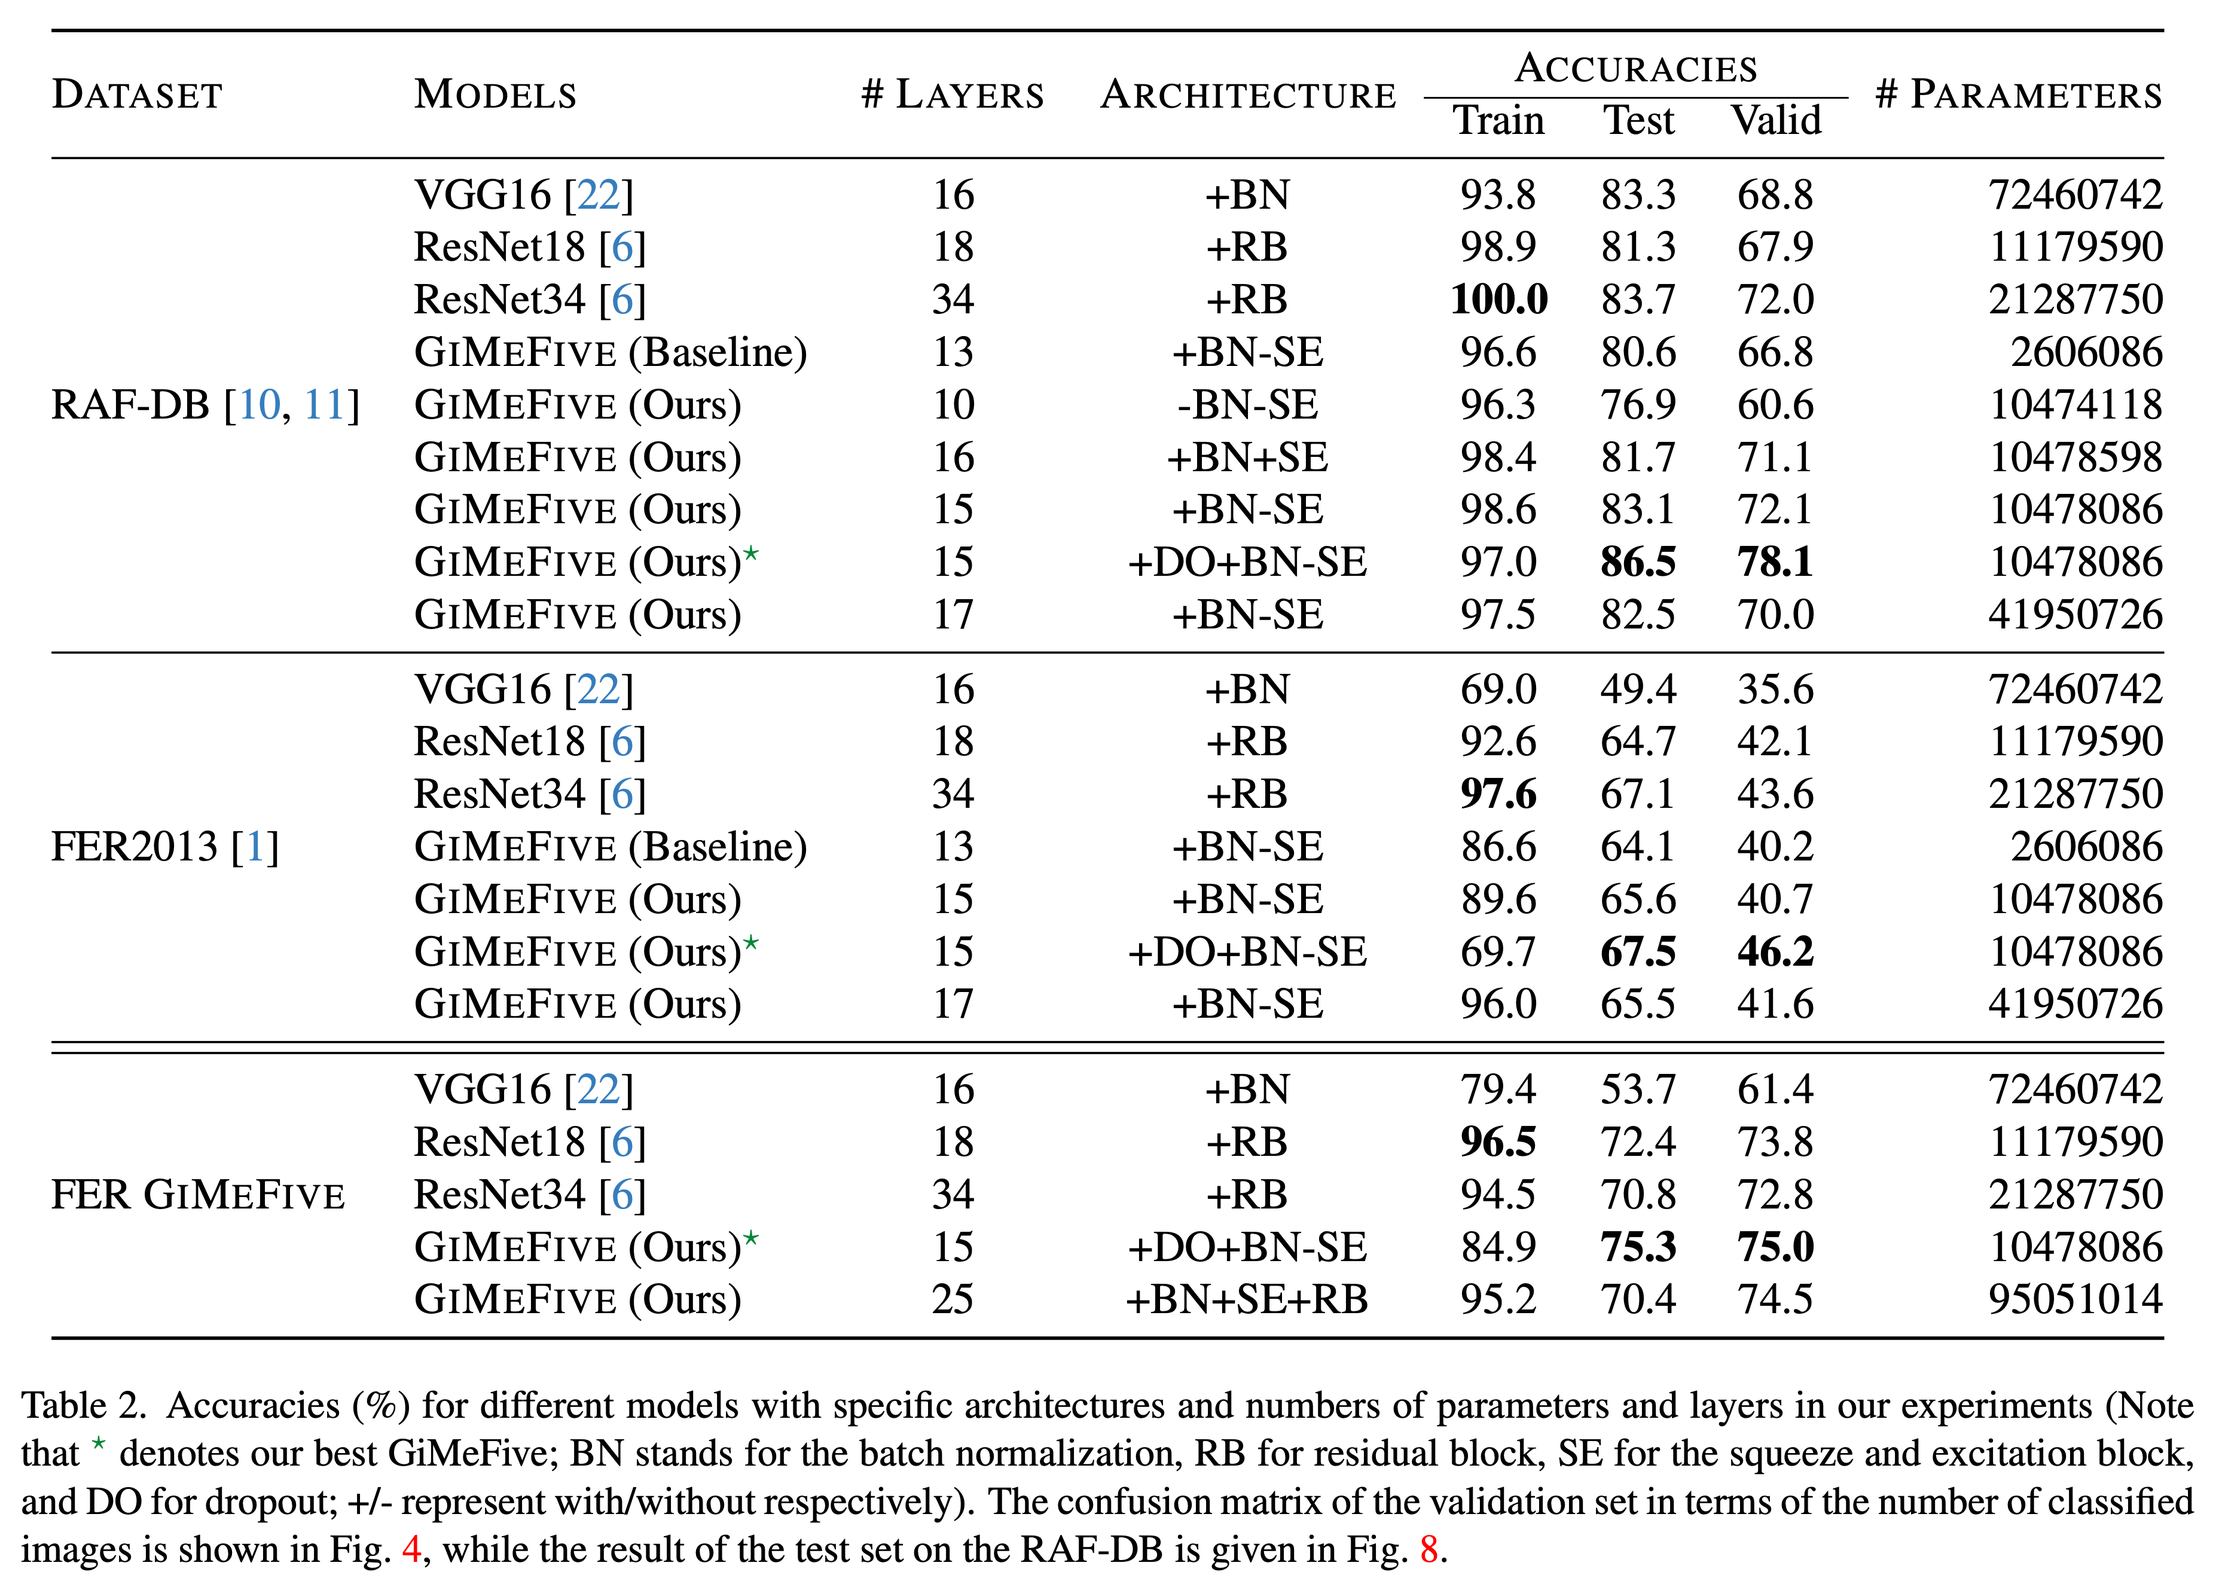
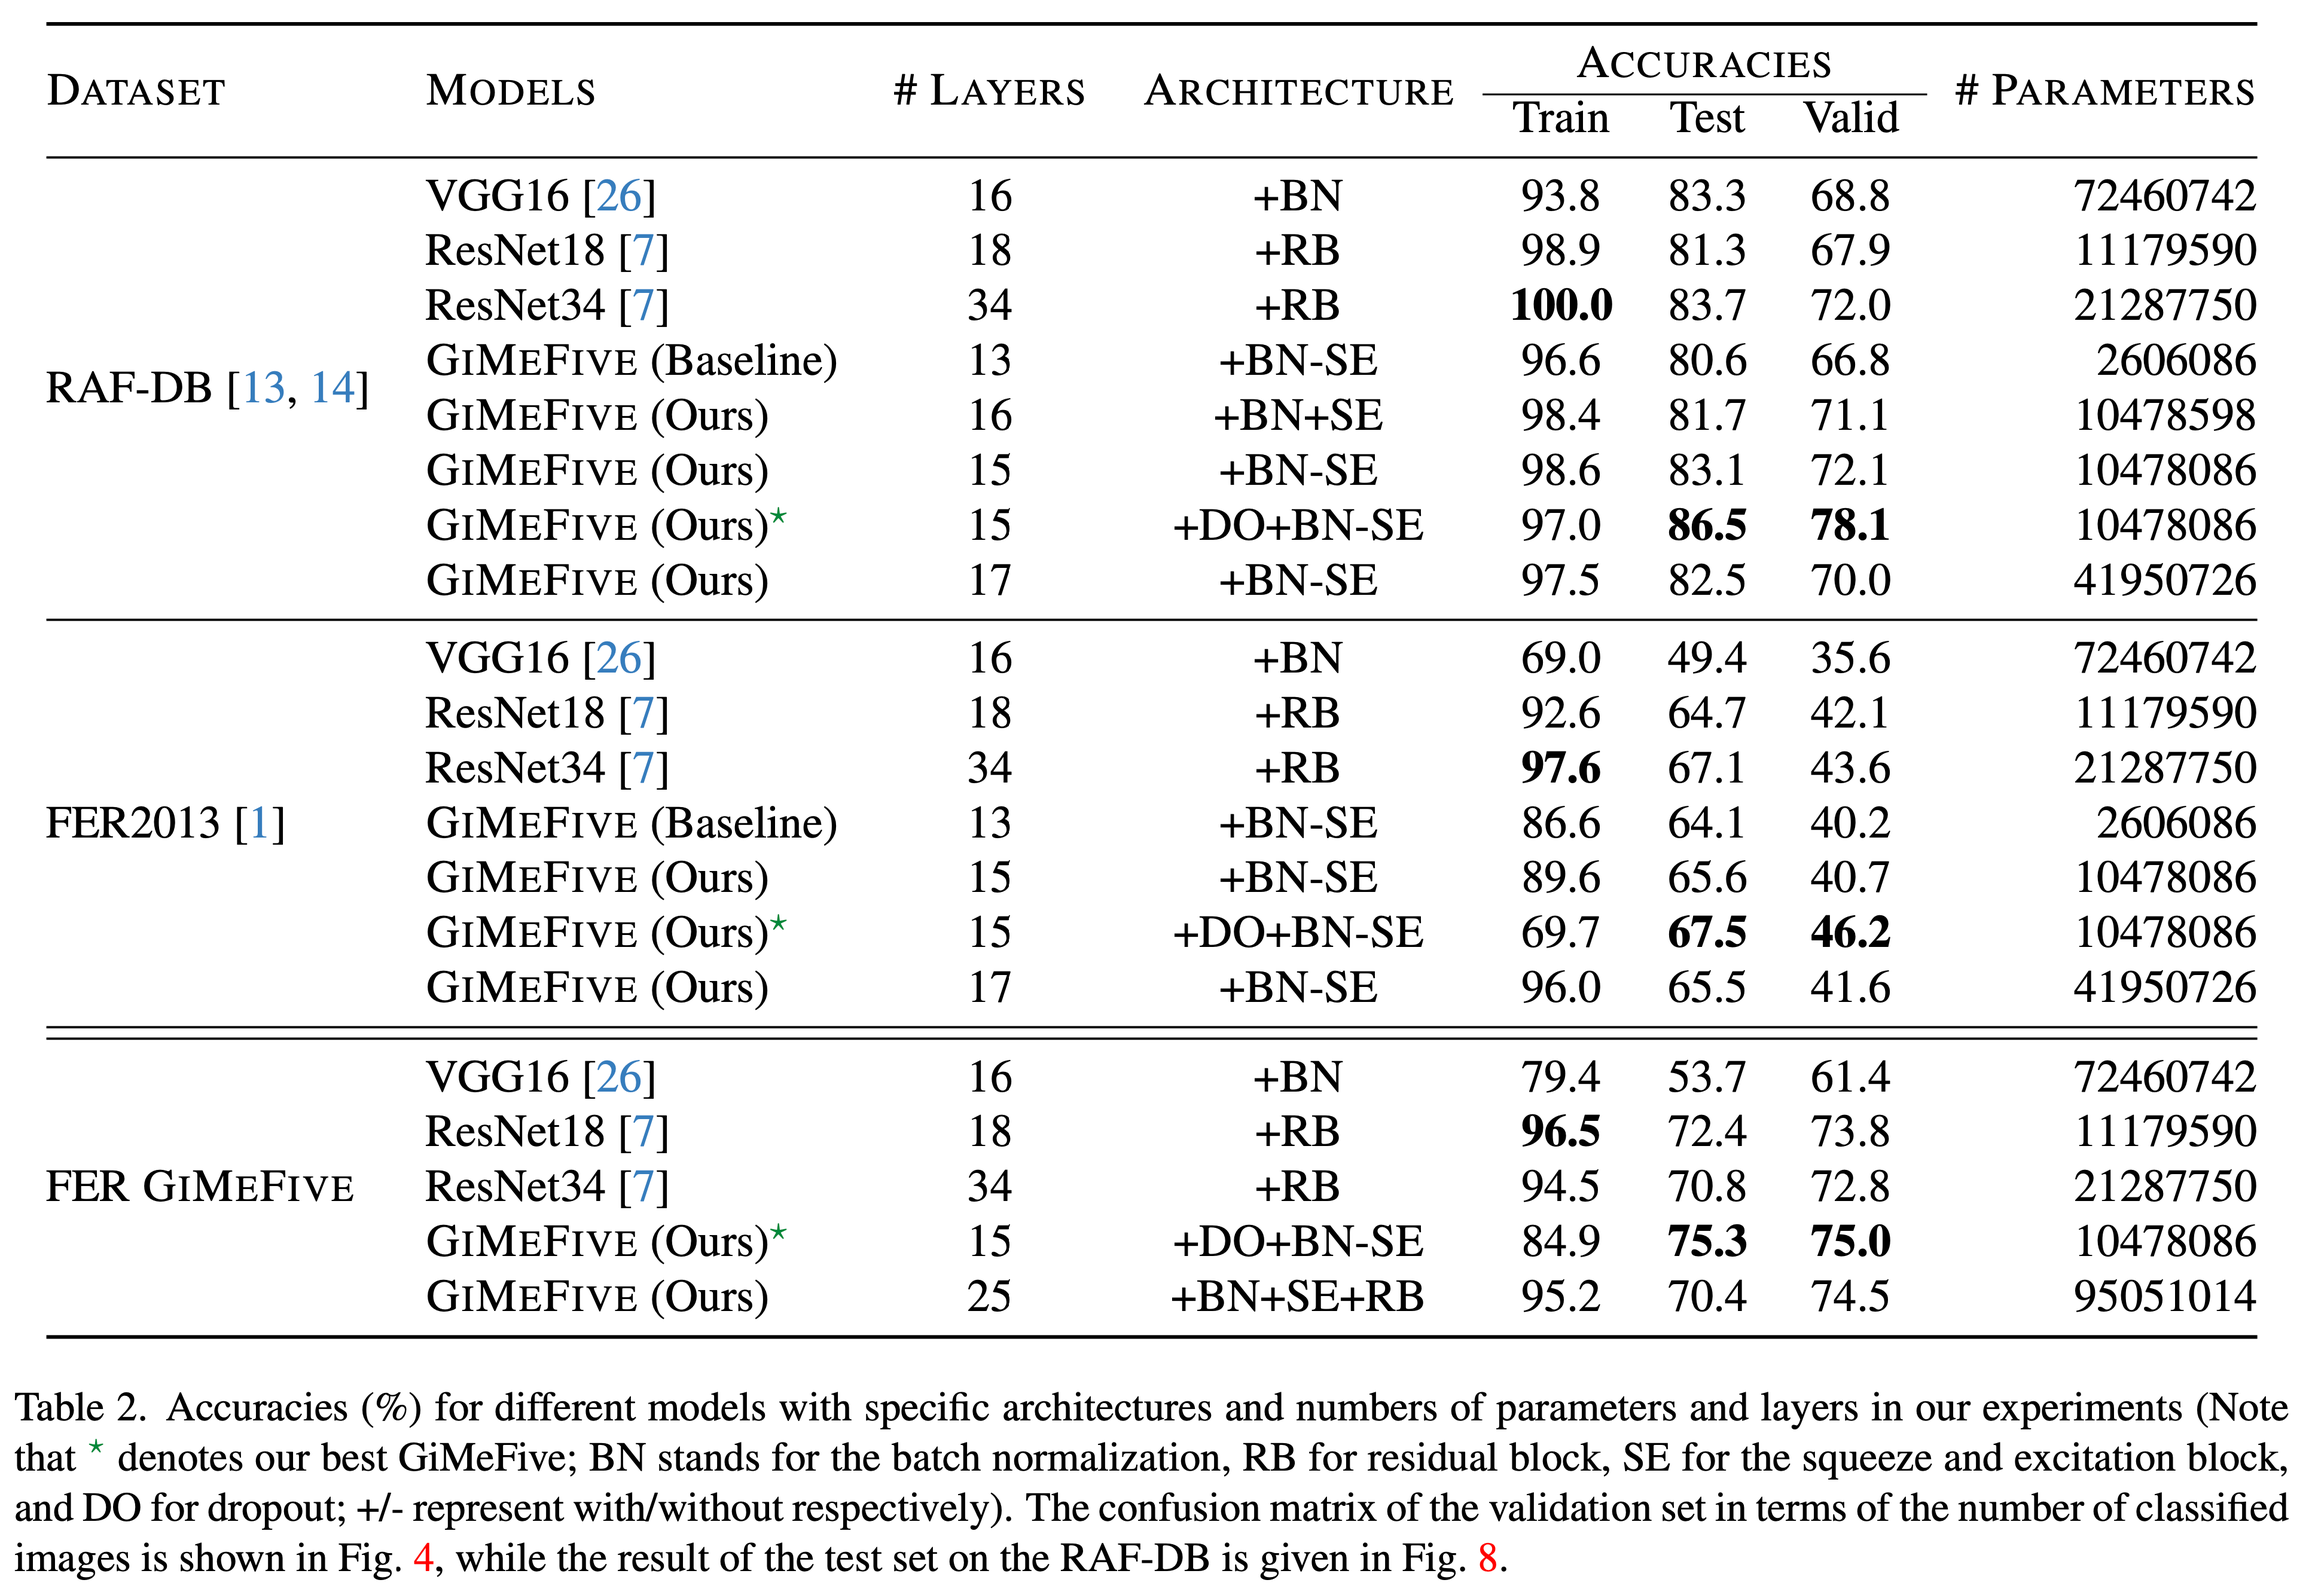
updated baseline & table result

diff --git a/models.py b/models.py
@@ -26,29 +26,76 @@ class GiMeFive(nn.Module):
         self.dropout2 = nn.Dropout(0.5)
         self.fc3 = nn.Linear(1024, 6)
 
-    def forward(self, x): # (batch_size, channels=3, 64, 64)
-        x = F.relu(self.bn1(self.conv1(x))) # (batch_size, 64, 64, 64)
-        x = F.max_pool2d(x, 2) # (batch_size, 64, 32, 32)
+    def forward(self, x):
+        x = F.relu(self.bn1(self.conv1(x))) 
+        x = F.max_pool2d(x, 2) 
         x = self.dropout1(x)
-        x = F.relu(self.bn2(self.conv2(x))) # (batch_size, 128, 32, 32)
-        x = F.max_pool2d(x, 2) # (batch_size, 128, 16, 16)
+        x = F.relu(self.bn2(self.conv2(x)))
+        x = F.max_pool2d(x, 2)
         x = self.dropout1(x)
-        x = F.relu(self.bn3(self.conv3(x))) # (batch_size, 256, 16, 16)
-        x = F.max_pool2d(x, 2) # (batch_size, 256, 8, 8)
+        x = F.relu(self.bn3(self.conv3(x)))
+        x = F.max_pool2d(x, 2) 
         x = self.dropout1(x)
-        x = F.relu(self.bn4(self.conv4(x))) # (batch_size, 512, 8, 8)
-        x = F.max_pool2d(x, 2) # (batch_size, 512, 4, 4)
+        x = F.relu(self.bn4(self.conv4(x))) 
+        x = F.max_pool2d(x, 2) 
         x = self.dropout1(x)
-        x = F.relu(self.bn5(self.conv5(x))) # (batch_size, 1024, 4, 4)
-        x = F.max_pool2d(x, 2) # (batch_size, 1024, 2, 2)
+        x = F.relu(self.bn5(self.conv5(x))) 
+        x = F.max_pool2d(x, 2)
         # x = self.dropout1(x)
         
-        x = self.pool(x) # (batch_size, 1024, 1, 1)
-        x = x.view(x.size(0), -1) # (batch_size, 1024) # Flatten
-        x = F.relu(self.fc1(x)) # (batch_size, 2048)
-        x = self.dropout2(x) # (batch_size, 2048)
-        x = F.relu(self.fc2(x)) # (batch_size, 1024)
-        x = self.fc3(x) # (batch_size, 6)
+        x = self.pool(x) 
+        x = x.view(x.size(0), -1)
+        x = F.relu(self.fc1(x)) 
+        x = self.dropout2(x) 
+        x = F.relu(self.fc2(x)) 
+        x = self.fc3(x)
+        return x
+
+
+class Baseline(nn.Module):
+    def __init__(self):
+        super(Baseline, self).__init__()
+        self.conv1 = nn.Conv2d(3, 64, kernel_size=3, padding=1)
+        self.bn1 = nn.BatchNorm2d(64)
+        self.conv2 = nn.Conv2d(64, 128, kernel_size=3, padding=1)
+        self.bn2 = nn.BatchNorm2d(128)
+        self.conv3 = nn.Conv2d(128, 256, kernel_size=3, padding=1)
+        self.bn3 = nn.BatchNorm2d(256)
+        self.conv4 = nn.Conv2d(256, 512, kernel_size=3, padding=1)
+        self.bn4 = nn.BatchNorm2d(512)
+        # self.conv5 = nn.Conv2d(512, 1024, kernel_size=3, padding=1)
+        # self.bn5 = nn.BatchNorm2d(1024)
+
+        self.pool = nn.AdaptiveAvgPool2d((1, 1))
+        self.fc1 = nn.Linear(512, 1024)
+        self.fc2 = nn.Linear(1024, 512) 
+        self.dropout1 = nn.Dropout(0.2)
+        self.dropout2 = nn.Dropout(0.5)
+        self.fc3 = nn.Linear(512, 6)
+
+    def forward(self, x):
+        x = F.relu(self.bn1(self.conv1(x))) 
+        x = F.max_pool2d(x, 2) 
+        x = self.dropout1(x)
+        x = F.relu(self.bn2(self.conv2(x)))
+        x = F.max_pool2d(x, 2)
+        x = self.dropout1(x)
+        x = F.relu(self.bn3(self.conv3(x)))
+        x = F.max_pool2d(x, 2) 
+        x = self.dropout1(x)
+        x = F.relu(self.bn4(self.conv4(x))) 
+        x = F.max_pool2d(x, 2) 
+        x = self.dropout1(x)
+        # x = F.relu(self.bn5(self.conv5(x))) 
+        # x = F.max_pool2d(x, 2)
+        # x = self.dropout1(x)
+        
+        x = self.pool(x) 
+        x = x.view(x.size(0), -1)
+        x = F.relu(self.fc1(x)) 
+        x = self.dropout2(x) 
+        x = F.relu(self.fc2(x)) 
+        x = self.fc3(x)
         return x
 
 
@@ -203,6 +250,7 @@ class BasicBlock(nn.Module):
         out = F.relu(out)
         return out
 
+
 class ResNet(nn.Module):
     def __init__(self, block, num_blocks, num_classes=6):
         super(ResNet, self).__init__()
@@ -236,8 +284,10 @@ class ResNet(nn.Module):
         out = self.fc(out)
         return out
 
+
 def EmotionClassifierResNet18():
     return ResNet(BasicBlock, [2, 2, 2, 2])
+
 
 def EmotionClassifierResNet34():
     return ResNet(BasicBlock, [3, 4, 6, 3])

diff --git a/final/sec/body.tex b/final/sec/body.tex
@@ -357,11 +357,11 @@ where the true class has probability 1 and all others have probability 0.
     \cline{5-7}
     &&&& Train & Test & Valid  &  \\
     \midrule
-    \multirow{9}{*}{RAF-DB~\cite{li_reliable_2017,li2019reliable}} &VGG16~\cite{SimonyanZ14a} & 16 &+BN&93.8&83.3&68.8&72460742\\ 
+    \multirow{8}{*}{RAF-DB~\cite{li_reliable_2017,li2019reliable}} &VGG16~\cite{SimonyanZ14a} & 16 &+BN&93.8&83.3&68.8&72460742\\ 
     & ResNet18~\cite{HeZRS16} & 18 & +RB  & 98.9 & 81.3 & 67.9 & 11179590 \\
     & ResNet34~\cite{HeZRS16} & 34 & +RB  & \textbf{100.0} & 83.7 & 72.0 & 21287750 \\
     &\textsc{GiMeFive} (Baseline) & 13 & +BN-SE & 96.6 & 80.6 & 66.8 & 2606086 \\ 
-    &\textsc{GiMeFive} (Ours) & 10 & -BN-SE & 96.3 & 76.9 & 60.6 & 10474118 \\
+    % &\textsc{GiMeFive} (Ours) & 10 & -BN-SE & 96.3 & 76.9 & 60.6 & 10474118 \\
     &\textsc{GiMeFive} (Ours) & 16 & +BN+SE & 98.4 & 81.7 & 71.1 & 10478598 \\
     &\textsc{GiMeFive} (Ours) & 15 & +BN-SE & 98.6 & 83.1 & 72.1 & 10478086 \\
     &\textsc{GiMeFive} (Ours)\textcolor{LMUGreen}{$^\star$} & 15 & +DO+BN-SE & 97.0 & \textbf{86.5} & \textbf{78.1} & 10478086 \\
